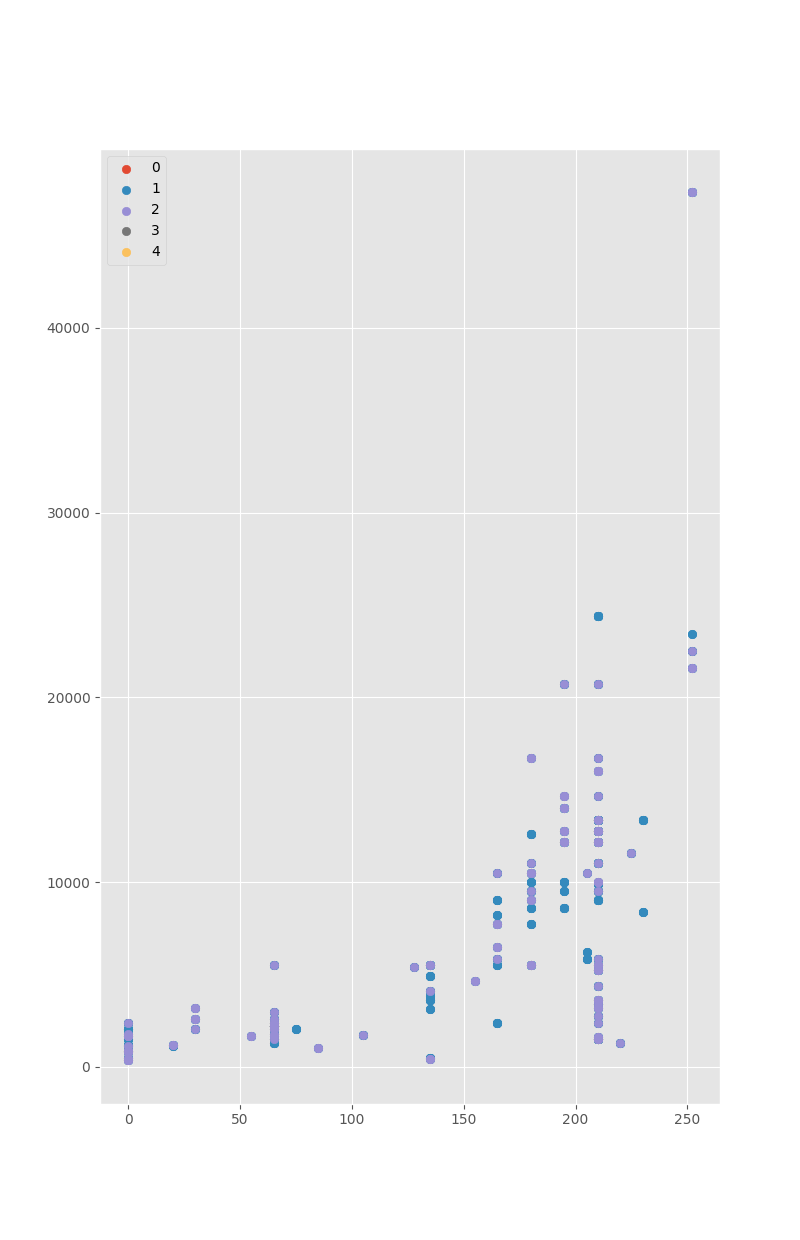
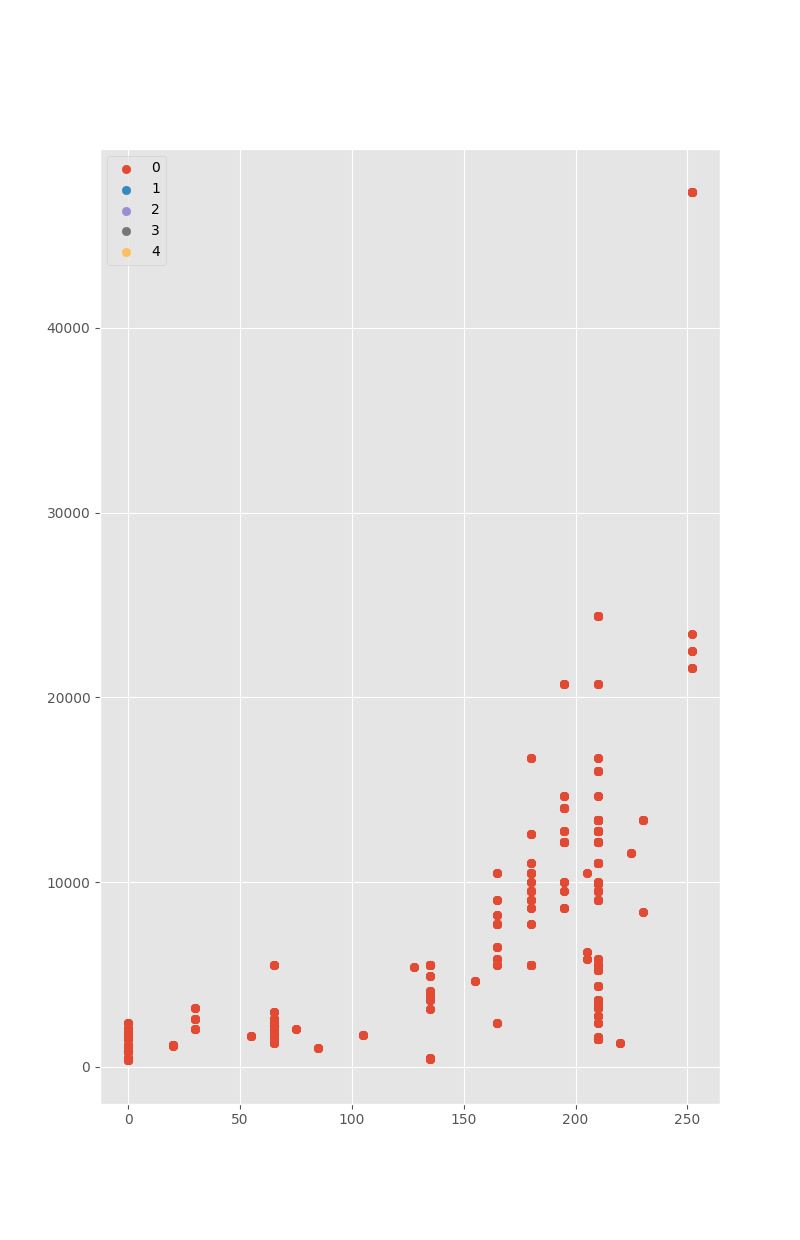
contextを追加

diff --git a/pokemon_ml_design/synthesize_data.py b/pokemon_ml_design/synthesize_data.py
@@ -12,7 +12,7 @@ from pokemon_ml_design.policy import rule_based_policy
 
 
 # 連続値をポケモンIDに変換する関数
-# 現状のSyntheticBanditDatasetは整数値のcontextを生成できないので、暫定対応
+# TODO: provate関数にして良さそう
 def get_pokemon_id(x: float) -> int:
     return (x * 10 ** 5).astype(int) % 151 + 1
 
@@ -49,27 +49,41 @@ def _behavior_policy(
     return policy
 
 
-def _update_reward(data: BanditFeedback) -> BanditFeedback:
-    # 捕獲したかどうかのrewardになっている。
-    # 捕獲した場合は謝礼金をもらえて、捕獲しなかった場合は何ももらえない
-    # ボールのコストを差し引く
+# 現状のSyntheticBanditDatasetは整数値のcontextを生成できないので、暫定的に後処理でcontextを追加する
+def _update_context(data: BanditFeedback) -> BanditFeedback:
     pokemon_ids = get_pokemon_id(data['context'].flatten())
     pokemon_zukan = PokemonZukan()
     rewards = np.array([pokemon_zukan.get_reward(pokemon_id) for pokemon_id in pokemon_ids])
+    capture_dificulties = np.array([pokemon_zukan.get_capture_dificulty(pokemon_id) for pokemon_id in pokemon_ids])
+
+    new_context = np.concatenate([pokemon_ids[:, np.newaxis], capture_dificulties[:, np.newaxis], rewards[:, np.newaxis]], axis=1)
+    data['context'] = new_context
+    return data
+
+
+# 現状、捕獲したかどうかのrewardになっているので、
+# 「捕獲した場合は謝礼金をもらえて、捕獲しなかった場合は何ももらえない」「ボールのコストを差し引く」を考慮したrewardにする
+def _update_reward(data: BanditFeedback) -> BanditFeedback:
+    rewards = data['context'][:, 2]
     costs = np.array([ACTIONS[action_id].cost for action_id in data['action'].flatten()])
-    data['reward'] = rewards * data['reward'] * 100 - costs
+    data['reward'] = rewards * data['reward'] - costs
+    return data
+
+
+def _post_process(data: BanditFeedback) -> BanditFeedback:
+    data = _update_context(data)
+    data = _update_reward(data)
     return data
 
 
 def synthesize_data() -> Tuple[BanditFeedback, BanditFeedback]:
     dataset = SyntheticBanditDataset(
         n_actions=len(ACTIONS),
-        dim_context=1,
+        dim_context=1,  # pokemon_idの元になるfloat値を生成する
         reward_function=_reward_function,
         behavior_policy_function=_behavior_policy,
         random_state=615,
     )
-
-    training_data = _update_reward(dataset.obtain_batch_bandit_feedback(n_rounds=10000))
-    validation_data = _update_reward(dataset.obtain_batch_bandit_feedback(n_rounds=1000))
+    training_data = _post_process(dataset.obtain_batch_bandit_feedback(n_rounds=10000))
+    validation_data = _post_process(dataset.obtain_batch_bandit_feedback(n_rounds=1000))
     return training_data, validation_data

diff --git a/pokemon_ml_design/evaluate.py b/pokemon_ml_design/evaluate.py
@@ -16,8 +16,6 @@ from pathlib import Path
 from sklearn.linear_model import LogisticRegression
 
 from pokemon_ml_design.actions import ACTIONS
-from pokemon_ml_design.pokemon import PokemonZukan
-from pokemon_ml_design.synthesize_data import get_pokemon_id
 
 
 def evaluate(validation_data: BanditFeedback, action_choices: Dict[str, List]) -> None:
@@ -55,13 +53,11 @@ def evaluate(validation_data: BanditFeedback, action_choices: Dict[str, List]) -
     )
     plt.clf()
 
-    pokemon_zukan = PokemonZukan()
     capture_dificulties = defaultdict(list)
     rewards = defaultdict(list)
-    for action, context in zip(action_choices['IPW'], validation_data['context'].flatten()):
-        pokemon_id = get_pokemon_id(context)
-        capture_dificulty = pokemon_zukan.get_capture_dificulty(pokemon_id)
-        reward = pokemon_zukan.get_reward(pokemon_id)
+    for action, context in zip(action_choices['IPW'], validation_data['context']):
+        capture_dificulty = context[1]
+        reward = context[2]
         action_id = np.argmax(action)
 
         capture_dificulties[action_id].append(capture_dificulty)

diff --git a/pokemon_ml_design/model.py b/pokemon_ml_design/model.py
@@ -6,7 +6,6 @@ from obp.policy import IPWLearner
 from obp.types import BanditFeedback
 from sklearn.linear_model import LogisticRegression
 
-from pokemon_ml_design.synthesize_data import get_pokemon_id
 from pokemon_ml_design.actions import ACTIONS
 from pokemon_ml_design.policy import rule_based_policy
 
@@ -25,7 +24,7 @@ class IPWModel(BaseModel):
     def __init__(self) -> None:
         self._model = IPWLearner(
             n_actions=len(ACTIONS),
-            base_classifier=LogisticRegression(C=100, random_state=12345, max_iter=1000)
+            base_classifier=LogisticRegression(C=100, random_state=615, max_iter=10000)
         )
 
     def fit(self, data: BanditFeedback) -> None:
@@ -49,7 +48,7 @@ class RuleBasedModel(BaseModel):
         pass
 
     def predict(self, context: np.ndarray) -> np.ndarray:
-        pokemon_ids = get_pokemon_id(context.flatten())
+        pokemon_ids = context[:, 0]
         predictions = []
         for pokemon_id in pokemon_ids:
             probabilities = rule_based_policy(pokemon_id)
